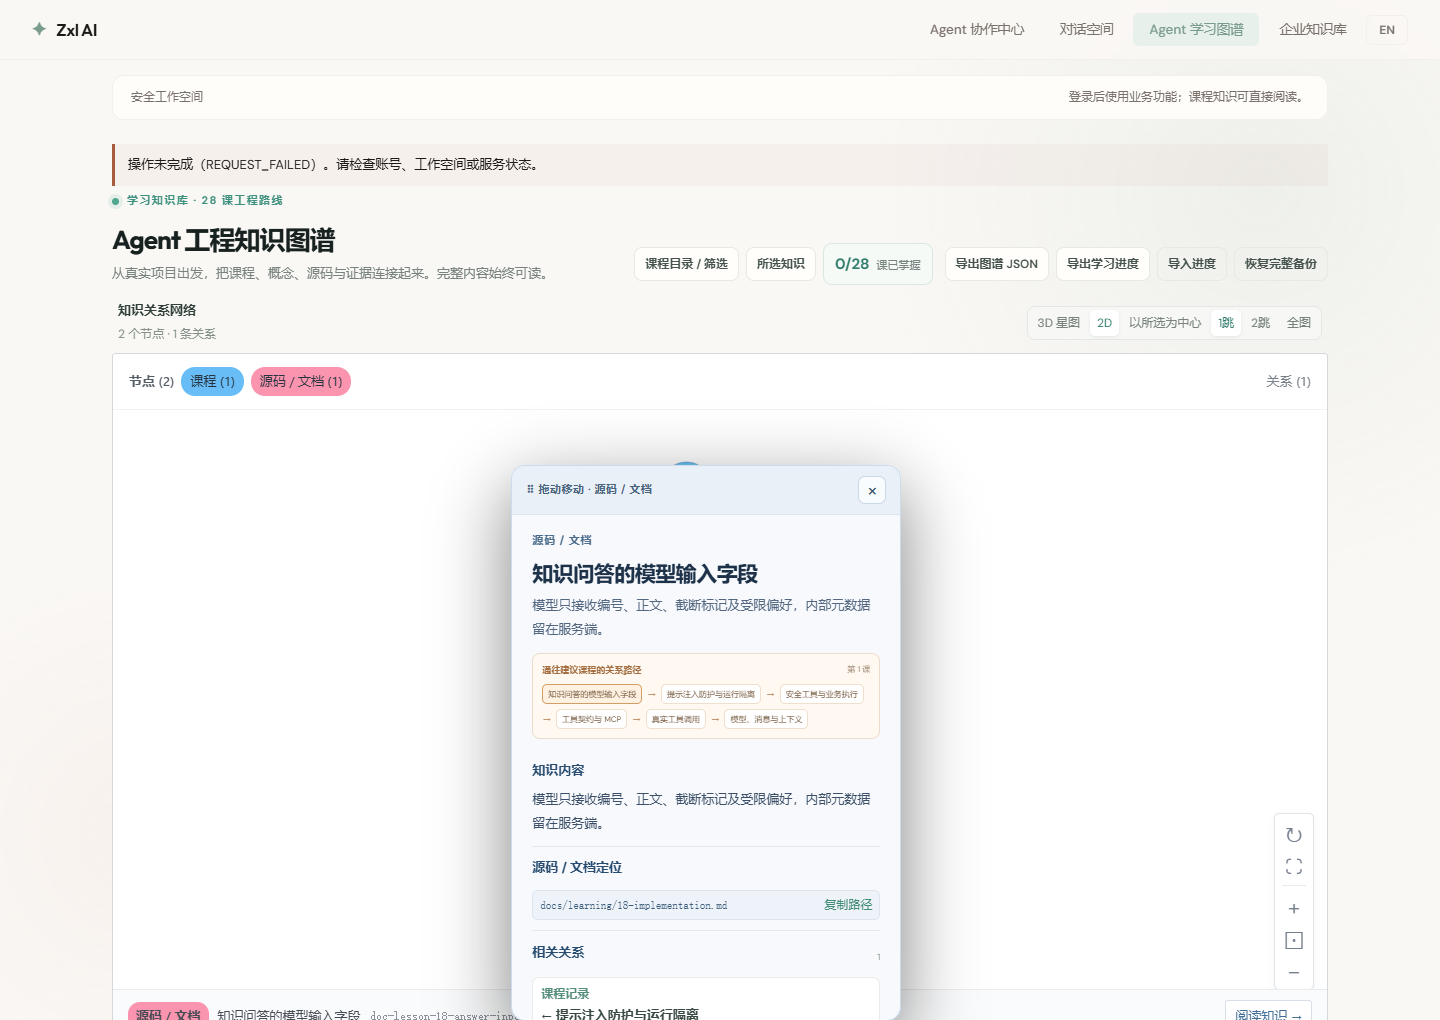
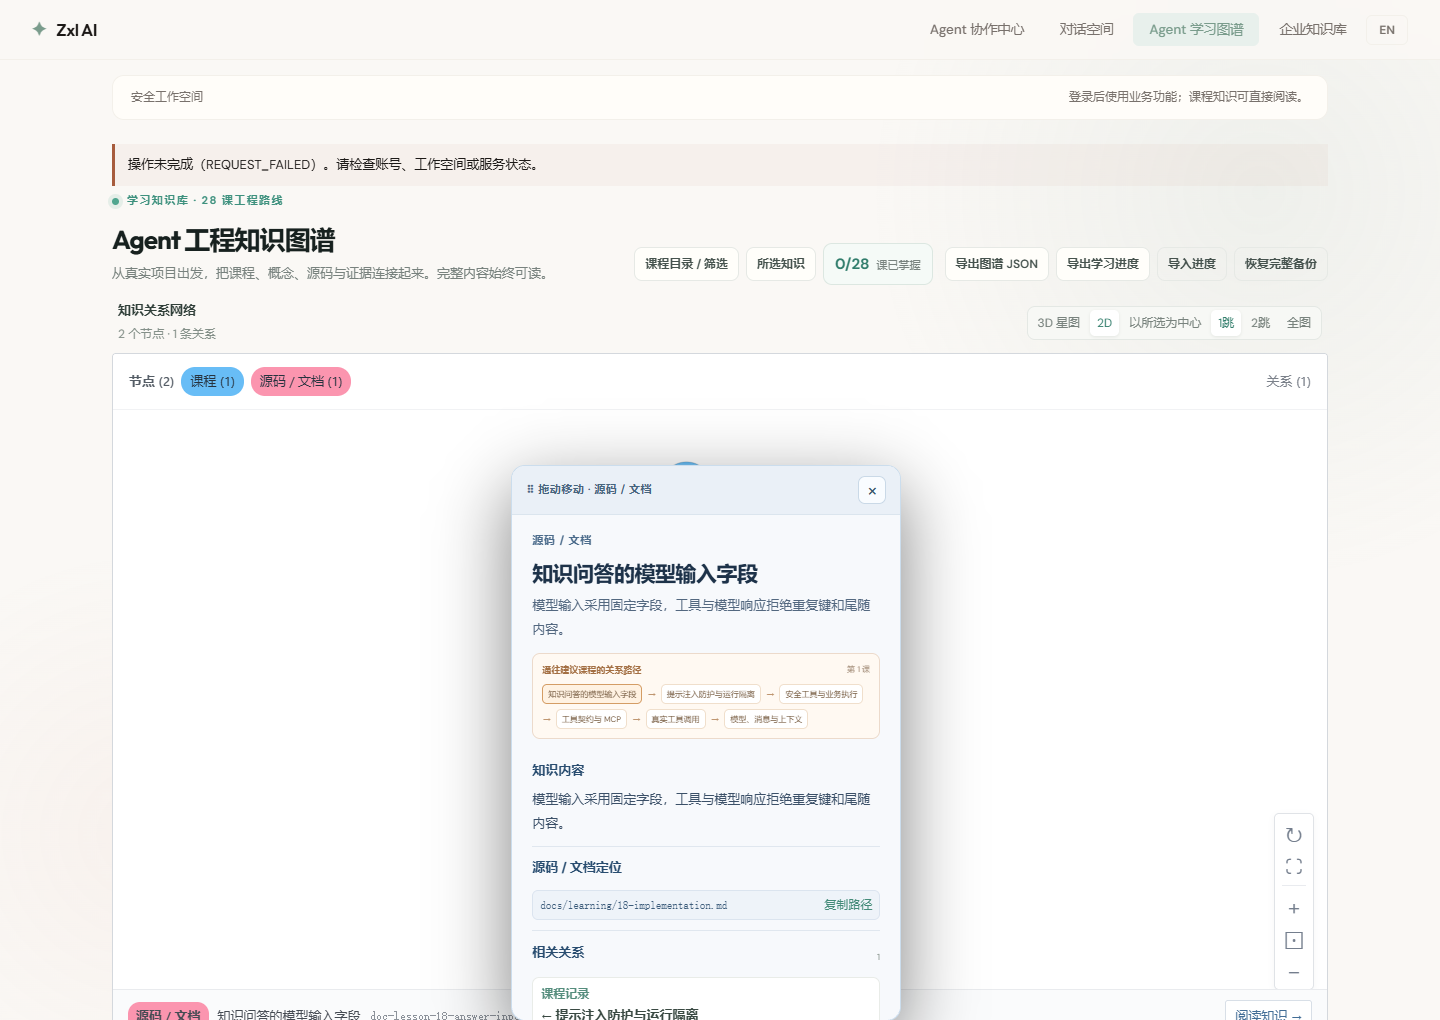
docs(learning): record strict response parsing checks

diff --git a/docs/learning/18-implementation.md b/docs/learning/18-implementation.md
@@ -25,3 +25,5 @@
 知识问答生成与评判使用请求内证据编号、正文和截断标记。文档与片段 ID、版本、来源名、位置和摘要保留在服务端复核及授权引用中。生成请求的偏好只允许已定义的语言、详略和格式组合。生成契约更新为 `prompt-v3`，评判更新为 `prompt-v2`。本地 HTTP 测试先复现内部字段出现在模型请求中，再验证生成与评判的消息正文符合新契约。21 项 Java 回归通过。正式启动配置仍缺失，本批真实模型复跑待验收。[图谱页面截图](../images/lesson18-answer-input-2026-11-13/README.md)
 
 新增固定文本摘录实验，包含独立镜像、容器启动器和输入输出契约测试。本机 Docker Desktop 启动失败，实际入口已验证拒绝运行。GitHub Actions 的真实 Linux Docker 通过正向摘录、配置检查和容器清理。同一容器观察到仅有回环接口、根文件系统拒绝写入和 cgroup 配额。受控监听器确认隔离容器的连接未到达。合成内存负载触发一次 cgroup OOM 终止。[运行隔离实验](18-runtime-excerpt.md)
+
+工具结果和知识问答模型响应现使用严格 JSON 解析。重复键或 JSON 值后的尾随内容会在业务判断前被拒绝。知识问答同时检查 HTTP 响应封装和模型返回的内层 JSON。研究工具收到不合规响应时只发送固定 `MCP_INVALID_RESPONSE`。52 项 Java 回归覆盖工具端口、模型 HTTP 封装与内层内容。真实模型复跑待恢复正式启动配置。[图谱截图](../images/lesson18-answer-input-2026-11-13/README.md)
